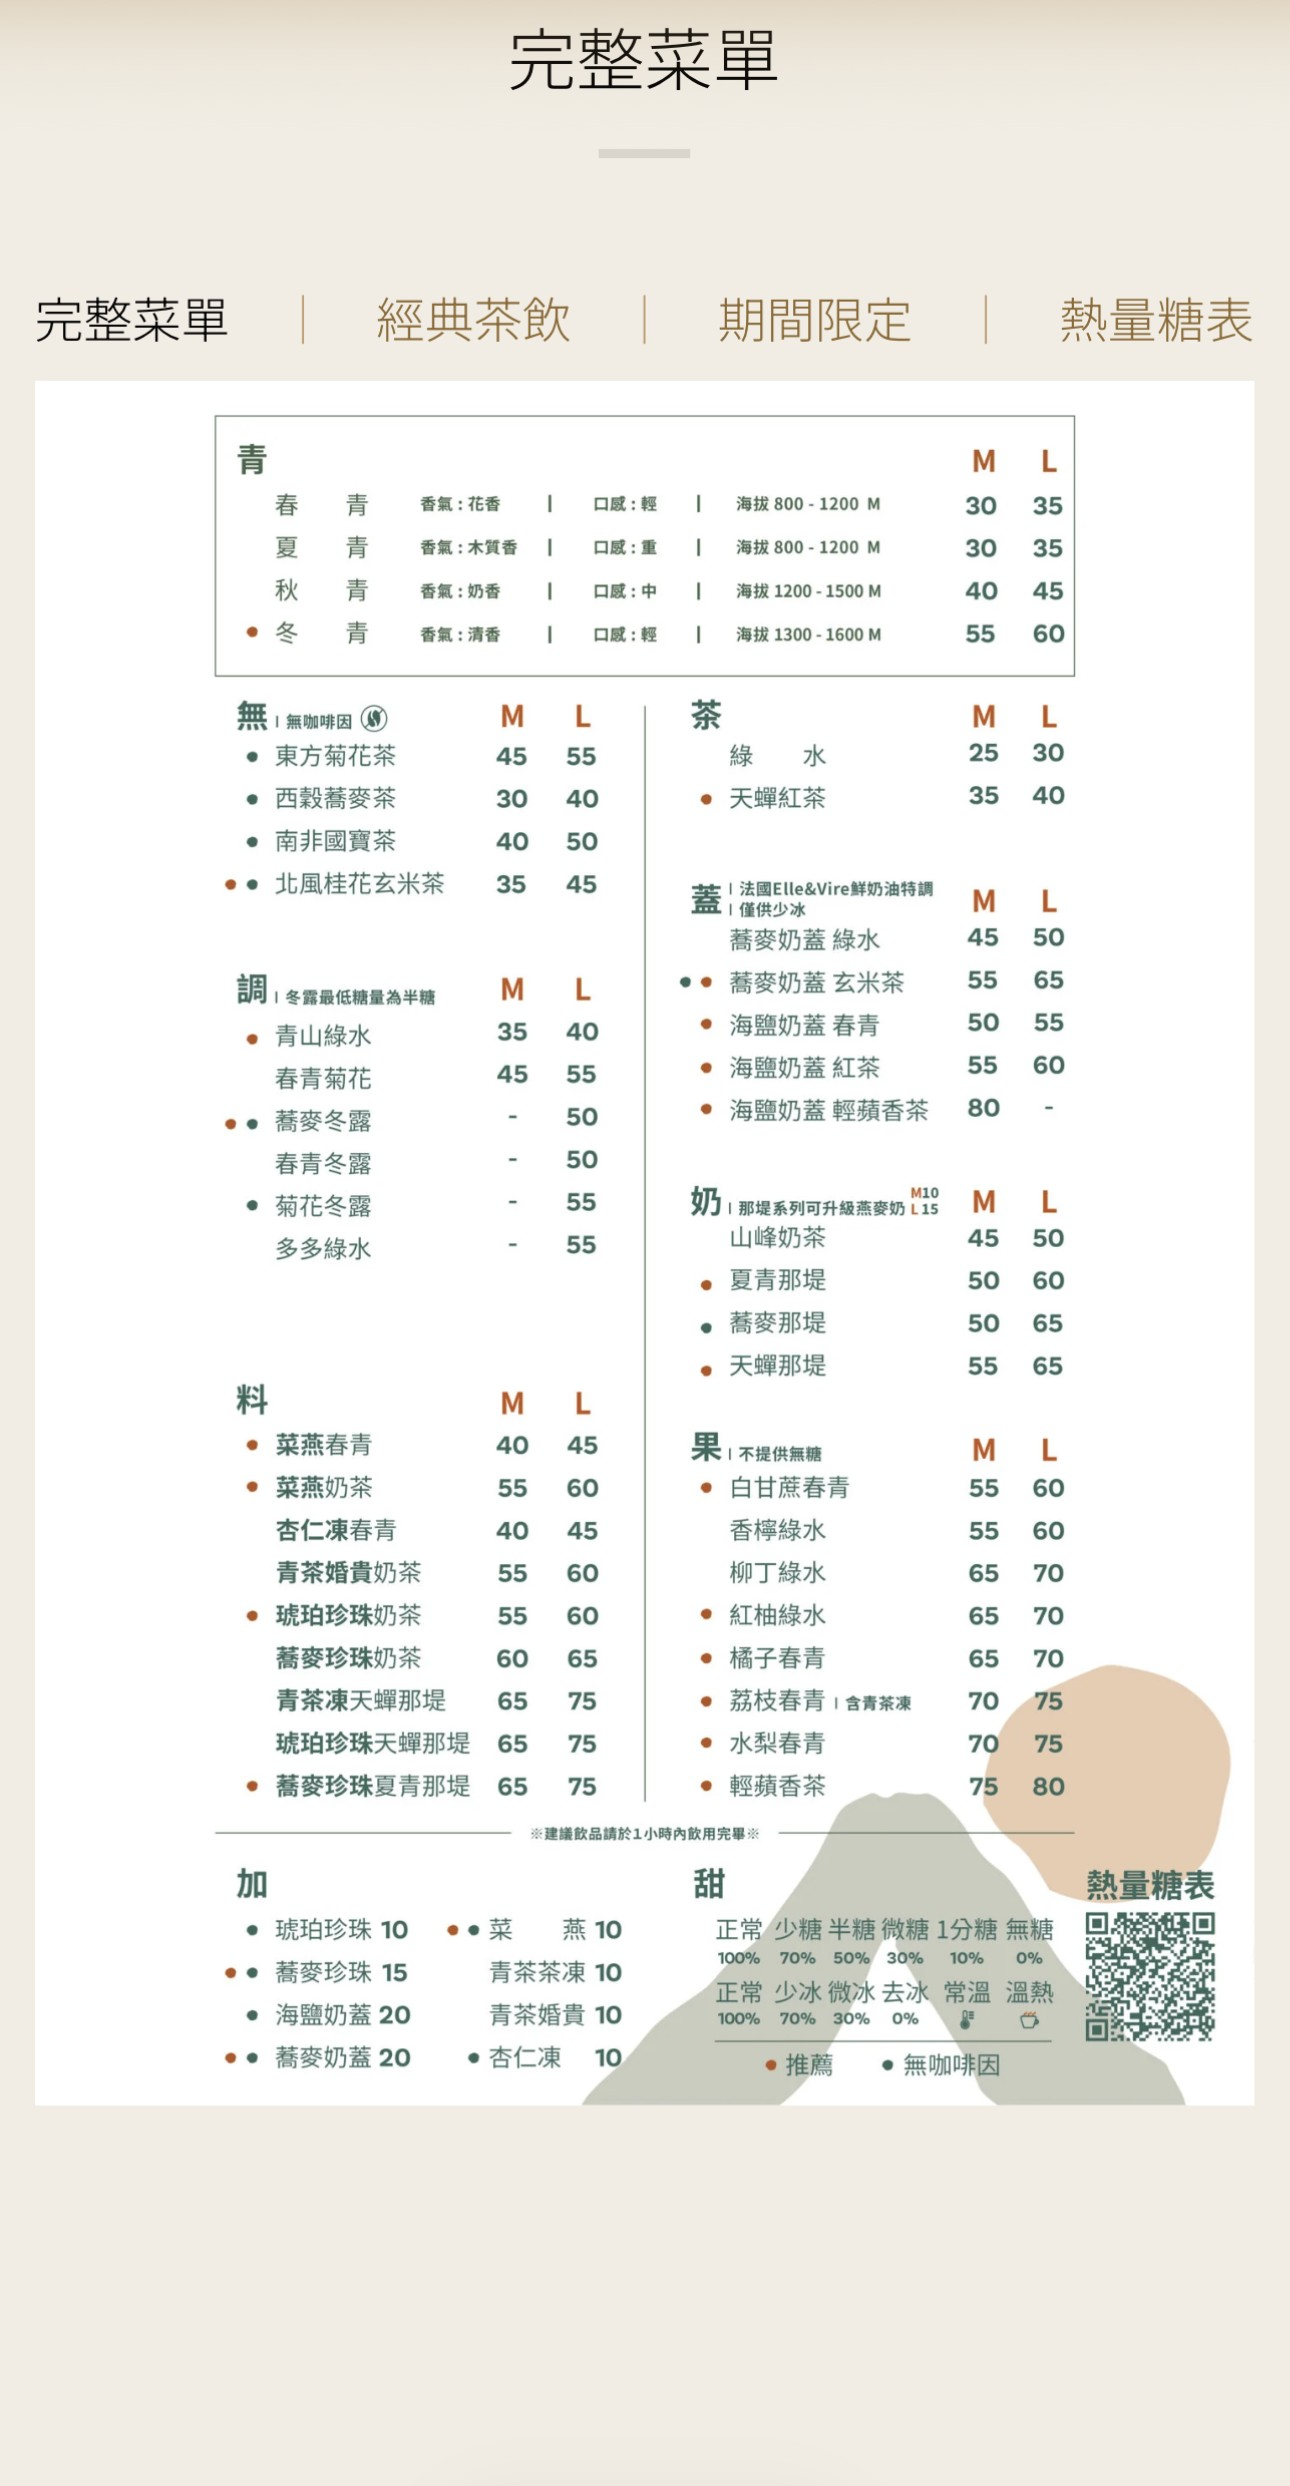
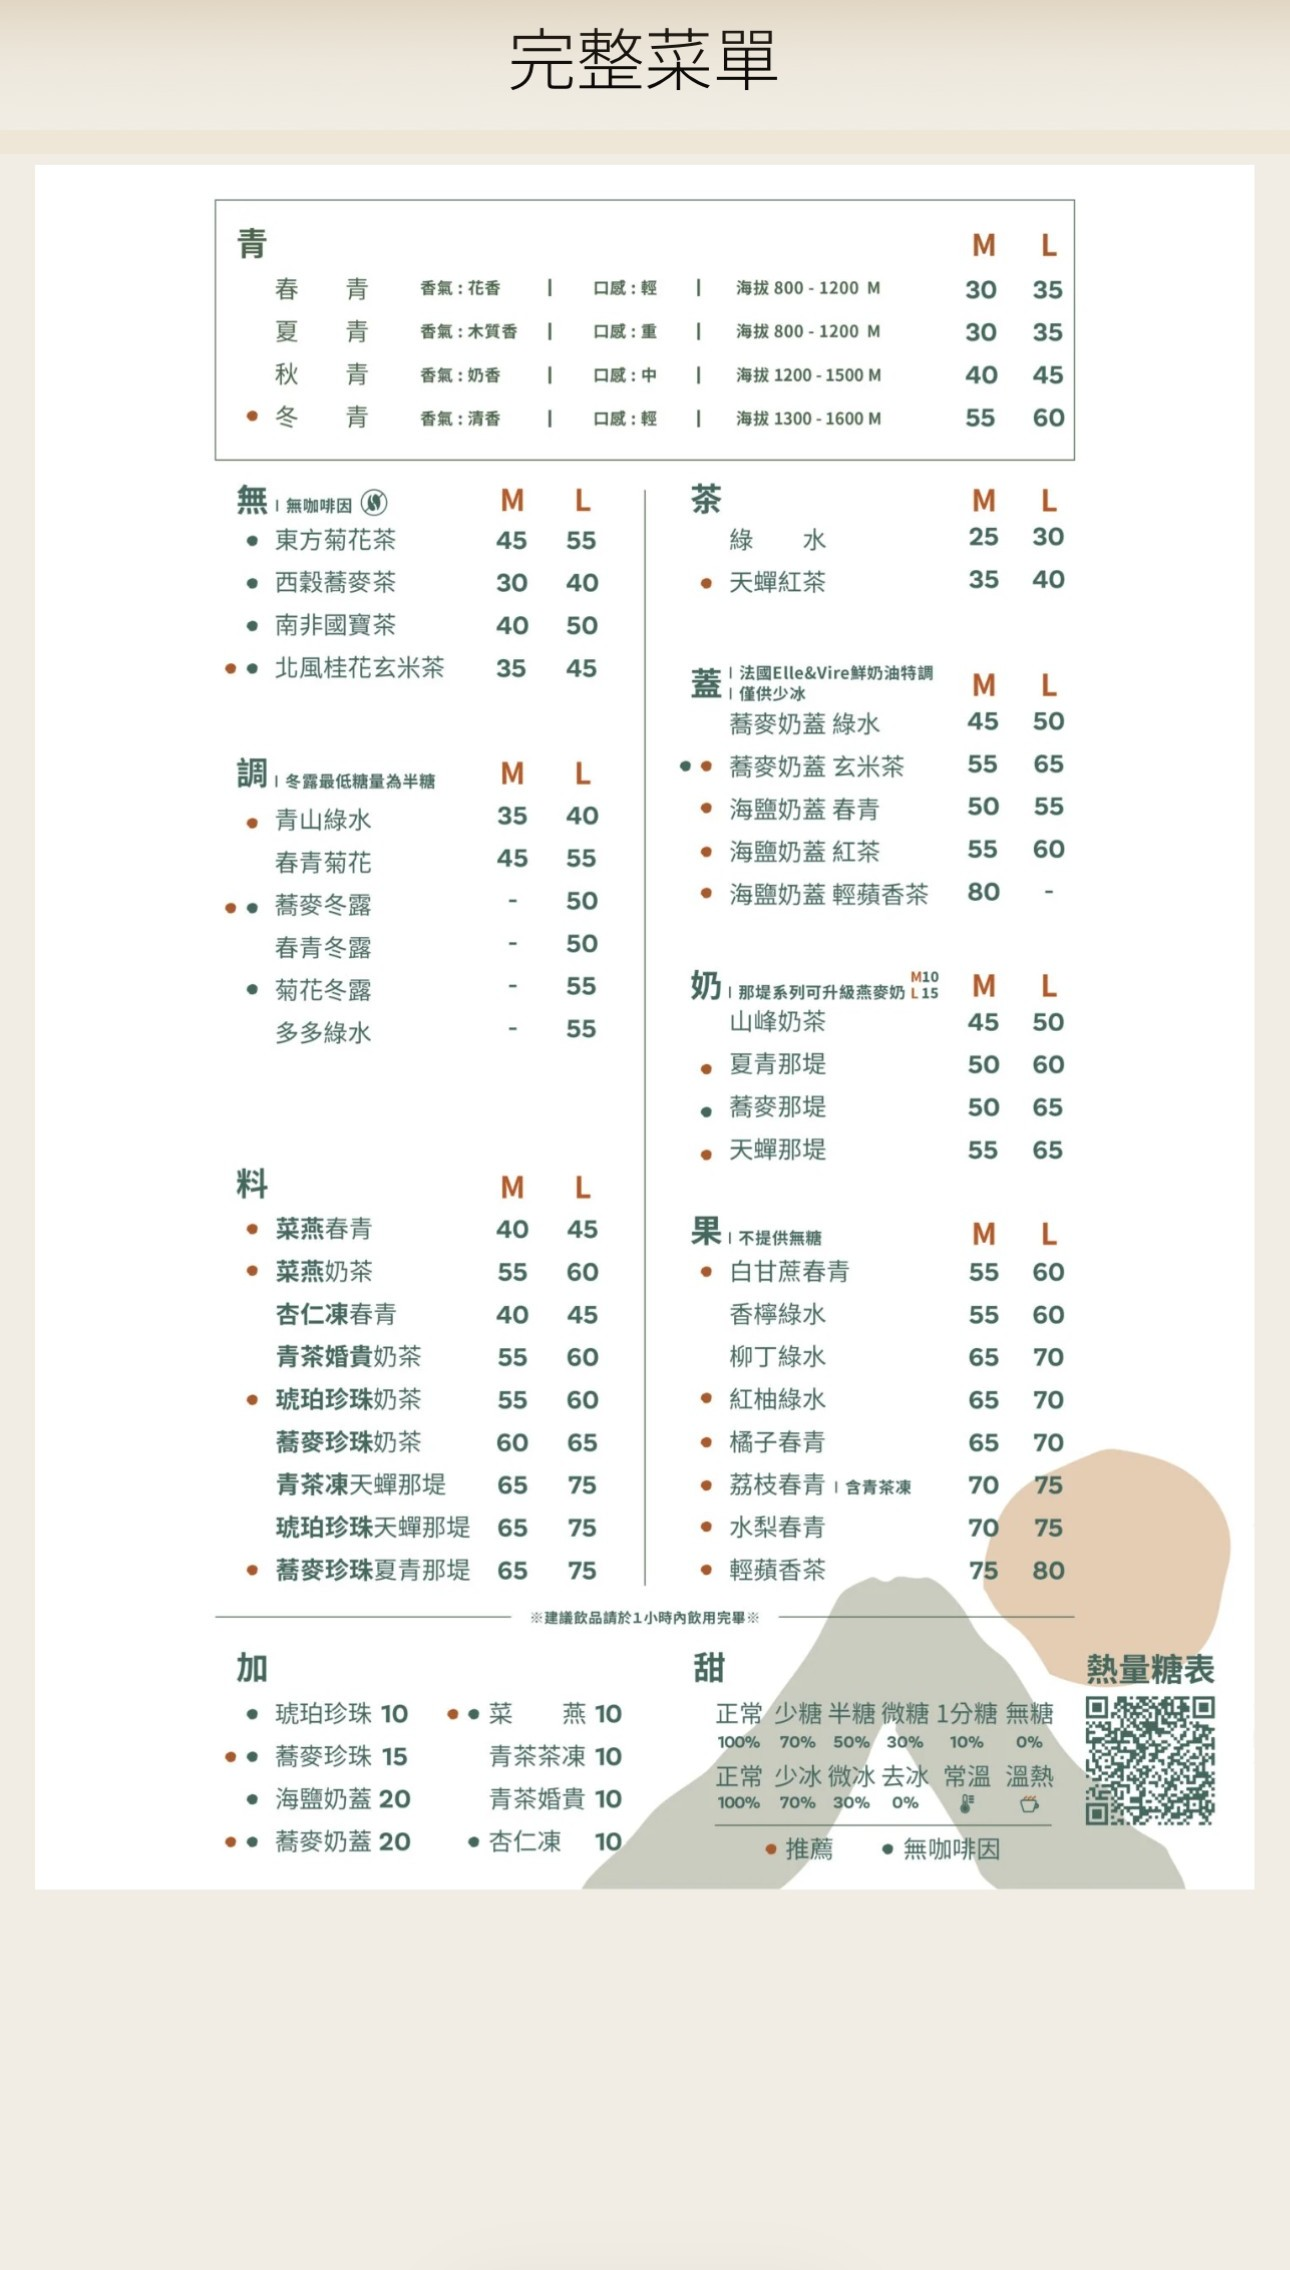
Skip the product detail page; land on customize directly, compact it
Clicking a drink photo on the homepage now goes straight to
customize.html instead of a separate product.html detail page —
that page's description, aroma/altitude info, and size/ice/sugar
notices now live in the customize preview panel, so nothing was
lost by removing the extra hop. Dropped the "相關商品" related-items
section along with it to keep the page focused.

Also shrank the customize page's scale (smaller preview image,
tighter spacing, smaller type) since it's now the primary landing
page after a menu click rather than a secondary detail step.

Removed the "完整菜單｜經典茶飲｜期間限定｜熱量糖表" tab row from the
homepage's full-menu reference image — it's a static image, so those
non-functional tabs were just clutter.

Changed region(s): [[0.031, 0.0, 0.9922, 0.8634]]

diff --git a/css/style.css b/css/style.css
@@ -222,54 +222,53 @@ body.modal-open { overflow: hidden; }
 .drink-card h3 { font-size: 1.02rem; margin-bottom: 4px; }
 .drink-card .price { color: var(--muted); font-size: .86rem; }
 
-/* ---------- Product detail ---------- */
-.product-detail { display: grid; grid-template-columns: 1fr 1fr; gap: 60px; align-items: start; padding: 60px 0; }
-.product-detail .frame { border-radius: var(--radius); overflow: hidden; box-shadow: var(--shadow); aspect-ratio: 1 / 1; }
-.product-detail .frame svg { width: 100%; display: block; }
-.product-info .cat-badge { color: var(--accent); letter-spacing: .25em; font-size: .82rem; margin-bottom: 10px; display: block; }
-.product-info h1 { font-size: 2.1rem; }
-.product-info .price { font-size: 1.3rem; color: var(--primary-dark); font-weight: 700; margin: 18px 0; }
-.product-info .desc { color: var(--muted); margin-bottom: 26px; }
 .notice-list { list-style: none; padding: 0; margin: 0 0 30px; display: flex; flex-direction: column; gap: 8px; }
 .notice-list li { font-size: .88rem; color: var(--accent); background: #fbeee1; border: 1px solid var(--accent-soft); padding: 8px 14px; border-radius: 10px; }
-@media (max-width: 820px) { .product-detail { grid-template-columns: 1fr; gap: 30px; } }
-
-.related h2 { text-align: center; margin-bottom: 30px; font-size: 1.4rem; }
 
 /* ---------- Customize page ---------- */
-.customize-layout { display: grid; grid-template-columns: 340px 1fr; gap: 50px; padding: 50px 0 90px; align-items: start; }
-.customize-preview { position: sticky; top: 140px; }
-.customize-preview .frame { border-radius: var(--radius); overflow: hidden; box-shadow: var(--shadow); margin-bottom: 18px; aspect-ratio: 1 / 1; }
-.customize-preview h2 { font-size: 1.4rem; margin-bottom: 6px; }
-.customize-preview .price-live { font-size: 1.6rem; color: var(--accent); font-weight: 700; }
+.customize-layout { display: grid; grid-template-columns: 260px 1fr; gap: 36px; padding: 28px 0 60px; align-items: start; }
+.customize-preview { position: sticky; top: 130px; }
+.customize-preview .frame { border-radius: var(--radius); overflow: hidden; box-shadow: var(--shadow); margin-bottom: 14px; aspect-ratio: 1 / 1; max-width: 260px; }
+.customize-preview .cat-badge { display: block; margin-bottom: 2px; }
+.customize-preview h2 { font-size: 1.2rem; margin-bottom: 6px; }
+.customize-preview .desc { font-size: .86rem; color: var(--muted); margin-bottom: 10px; }
+.customize-preview .price-live { font-size: 1.35rem; color: var(--accent); font-weight: 700; }
+.customize-preview .notice-list { margin-top: 10px; margin-bottom: 0; gap: 6px; }
+.customize-preview .notice-list li { font-size: .78rem; padding: 6px 10px; }
 
-.option-block { margin-bottom: 32px; }
-.option-block h3 { font-size: 1.02rem; display: flex; align-items: center; gap: 8px; }
-.option-block .hint { font-size: .82rem; color: var(--muted); margin: -4px 0 14px; }
-.option-pills { display: flex; flex-wrap: wrap; gap: 10px; }
+.option-block { margin-bottom: 22px; }
+.option-block h3 { font-size: .96rem; display: flex; align-items: center; gap: 8px; }
+.option-block .hint { font-size: .78rem; color: var(--muted); margin: -2px 0 10px; }
+.option-pills { display: flex; flex-wrap: wrap; gap: 8px; }
 .pill {
   border: 1px solid var(--line); background: var(--card-bg); border-radius: 999px;
-  padding: 10px 20px; font-size: .92rem; color: var(--text); position: relative;
+  padding: 8px 16px; font-size: .86rem; color: var(--text); position: relative;
 }
 .pill.selected { background: var(--primary); border-color: var(--primary); color: #fff; }
 .pill:disabled { opacity: .35; cursor: not-allowed; text-decoration: line-through; }
-.pill .sub { display: block; font-size: .72rem; opacity: .75; }
+.pill .sub { display: block; font-size: .68rem; opacity: .75; }
 
-.addon-list { display: flex; flex-direction: column; gap: 10px; }
+.addon-list { display: flex; flex-direction: column; gap: 8px; }
 .addon-row {
   display: flex; align-items: center; justify-content: space-between; border: 1px solid var(--line);
-  border-radius: 12px; padding: 12px 18px; background: var(--card-bg);
+  border-radius: 12px; padding: 9px 14px; background: var(--card-bg);
 }
 .addon-row.selected { border-color: var(--primary); background: #f1f6ef; }
-.addon-row label { display: flex; align-items: center; gap: 12px; font-size: .95rem; cursor: pointer; width: 100%; justify-content: space-between; }
-.addon-row .price-tag { color: var(--muted); font-size: .85rem; }
+.addon-row label { display: flex; align-items: center; gap: 12px; font-size: .88rem; cursor: pointer; width: 100%; justify-content: space-between; }
+.addon-row .price-tag { color: var(--muted); font-size: .8rem; }
 
-.qty-row { display: flex; align-items: center; gap: 16px; }
-.qty-btn { width: 36px; height: 36px; border-radius: 50%; border: 1px solid var(--line); background: #fff; font-size: 1.1rem; }
-.qty-num { font-size: 1.1rem; min-width: 24px; text-align: center; }
+.qty-row { display: flex; align-items: center; gap: 14px; }
+.qty-btn { width: 32px; height: 32px; border-radius: 50%; border: 1px solid var(--line); background: #fff; font-size: 1rem; }
+.qty-num { font-size: 1rem; min-width: 22px; text-align: center; }
 
-.customize-actions { display: flex; gap: 14px; margin-top: 20px; }
-@media (max-width: 900px) { .customize-layout { grid-template-columns: 1fr; } .customize-preview { position: static; } }
+.customize-actions { display: flex; gap: 12px; margin-top: 16px; }
+@media (max-width: 900px) {
+  .customize-layout { grid-template-columns: 1fr; gap: 24px; }
+  .customize-preview { position: static; }
+  .customize-preview .frame { max-width: 220px; margin-left: auto; margin-right: auto; }
+  .customize-preview h2, .customize-preview .desc, .customize-preview .price-live, .customize-preview .cat-badge { text-align: center; }
+  .customize-preview .notice-list { align-items: center; }
+}
 
 /* ---------- Cart ---------- */
 .cart-list { display: flex; flex-direction: column; gap: 18px; margin-bottom: 40px; }

diff --git a/js/customize.js b/js/customize.js
@@ -11,10 +11,9 @@ document.addEventListener('DOMContentLoaded', () => {
   }
 
   const cat = getCategory(product.category);
-  document.title = `客製化 ${product.name}｜青山 PEAK TEA`;
-  const crumb = document.getElementById('crumbProduct');
-  crumb.textContent = product.name;
-  crumb.href = `product.html?id=${product.id}`;
+  document.title = `${product.name}｜青山 PEAK TEA`;
+  document.getElementById('crumbCat').innerHTML = `<a href="index.html?cat=${cat.key}">${cat.name}｜${cat.sub}</a>`;
+  document.getElementById('crumbName').textContent = product.name;
 
   const state = {
     size: product.l ? 'l' : 'm',
@@ -48,13 +47,23 @@ document.addEventListener('DOMContentLoaded', () => {
     return true;
   }
 
+  const notices = [];
+  if (product.iceFixed) notices.push(`本品為鮮奶油特調，${ICE.find(i => i.key === product.iceFixed).name}固定，無法調整冰量`);
+  if (product.noZeroSugar) notices.push('鮮果製作，不提供無糖選項');
+  if (product.minSweet) notices.push('最低糖量為半糖，喝出最佳風味');
+  if (!product.m) notices.push('僅供大杯（L）');
+  if (!product.l) notices.push('僅供中杯（M）');
+  if (product.aroma) notices.push(`香氣：${product.aroma}｜口感：${product.taste}｜海拔 ${product.altitude}`);
+
   root.innerHTML = `
     <div class="customize-preview">
       <div class="frame">${renderDrinkArt(product, { suffix: 'customize' })}</div>
       <span class="cat-badge" style="color:var(--accent); font-size:.82rem; letter-spacing:.2em;">${cat.name}｜${cat.sub}</span>
       <h2>${product.name}</h2>
+      <p class="desc">${product.desc}</p>
       <div class="price-live" id="livePrice">0 元</div>
       <p class="hint" id="priceBreakdown"></p>
+      ${notices.length ? `<ul class="notice-list">${notices.map(n => `<li>${n}</li>`).join('')}</ul>` : ''}
     </div>
 
     <div class="customize-options">

diff --git a/js/cards.js b/js/cards.js
@@ -4,7 +4,7 @@ function renderDrinkCard(product) {
   if (product.recommended) badges.push('<span class="badge">推薦</span>');
   if (product.category === 'wu') badges.push('<span class="badge">無咖啡因</span>');
   return `
-    <a class="drink-card" href="product.html?id=${product.id}">
+    <a class="drink-card" href="customize.html?id=${product.id}">
       <div class="frame">${renderDrinkArt(product, { suffix: 'card' })}</div>
       <div class="info">
         <div class="badges">${badges.join('')}</div>

diff --git a/js/data.js b/js/data.js
@@ -232,10 +232,6 @@ function getCategory(key) {
   return CATEGORIES.find(c => c.key === key);
 }
 
-function getRelatedProducts(product, count = 4) {
-  return PRODUCTS.filter(p => p.category === product.category && p.id !== product.id).slice(0, count);
-}
-
 function formatPrice(product) {
   if (product.m && product.l) return `M ${product.m} / L ${product.l}`;
   if (product.m && !product.l) return `M ${product.m}（僅供中杯）`;

diff --git a/customize.html b/customize.html
@@ -13,7 +13,7 @@
 
 <main>
   <div class="container">
-    <p class="breadcrumb"><a href="index.html">茶飲介紹</a> / <a id="crumbProduct" href="#"></a> / 客製化</p>
+    <p class="breadcrumb"><a href="index.html">茶飲介紹</a> / <span id="crumbCat"></span> / <span id="crumbName"></span></p>
   </div>
 
   <div class="container customize-layout" id="customizeRoot"></div>
